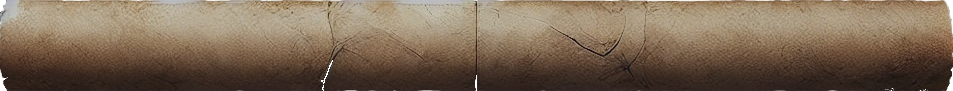
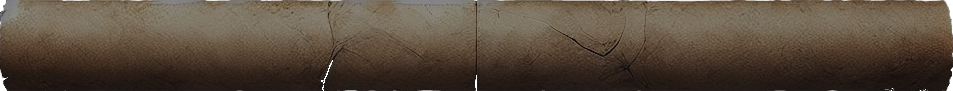
sc

diff --git a/public_html/projects/HauntedHouse/css/about-us.css b/public_html/projects/HauntedHouse/css/about-us.css
@@ -30,8 +30,8 @@ body {
         background-size: cover !important;
         -webkit-background-clip: text !important;
         background: linear-gradient(
-            rgb(65, 48, 36), /* Darker brown */
-            rgba(139, 69, 19, 1)
+            rgb(65, 48, 36), 
+            rgb(65, 48, 36)
         ) !important;
         background-clip: text !important;
         color: transparent !important; /* Makes text take on the background texture */
@@ -48,8 +48,8 @@ body {
         background-size: cover !important;
         -webkit-background-clip: text !important;
         background: linear-gradient(
-            rgb(65, 48, 36), /* Darker brown */
-            rgba(139, 69, 19, 1)
+            rgb(65, 48, 36), 
+            rgb(65, 48, 36)
         ) !important;
         background-clip: text !important;
         color: transparent !important; /* Makes text take on the background texture */
@@ -66,8 +66,8 @@ body {
         background-size: cover !important;
         -webkit-background-clip: text !important;
         background: linear-gradient(
-            rgb(65, 48, 36), /* Darker brown */
-            rgba(139, 69, 19, 1)
+            rgb(65, 48, 36), 
+            rgb(65, 48, 36)
         ) !important;
         background-clip: text !important;
         color: transparent !important; /* Makes text take on the background texture */
@@ -82,8 +82,8 @@ body {
         background-size: cover !important;
         -webkit-background-clip: text !important;
         background: linear-gradient(
-            rgb(65, 48, 36), /* Darker brown */
-            rgba(139, 69, 19, 1)
+            rgb(65, 48, 36), 
+            rgb(65, 48, 36)
         ) !important;
         background-clip: text !important;
         color: transparent !important; /* Makes text take on the background texture */
@@ -99,8 +99,8 @@ body {
         background-size: cover !important;
         -webkit-background-clip: text !important;
         background: linear-gradient(
-            rgb(65, 48, 36), /* Darker brown */
-            rgba(139, 69, 19, 1)
+            rgb(65, 48, 36), 
+            rgb(65, 48, 36)
         ) !important;
         background-clip: text !important;
         color: transparent !important; /* Makes text take on the background texture */
@@ -123,8 +123,8 @@ body {
         background-size: cover !important;
         -webkit-background-clip: text !important;
         background: linear-gradient(
-            rgb(65, 48, 36), /* Darker brown */
-            rgba(139, 69, 19, 1)
+            rgb(65, 48, 36), 
+            rgb(65, 48, 36)
         ) !important;
         background-clip: text !important;
         color: transparent !important; /* Makes text take on the background texture */

diff --git a/public_html/projects/HauntedHouse/css/contact.css b/public_html/projects/HauntedHouse/css/contact.css
@@ -17,7 +17,7 @@ html, body {
 
 /* Parchment Background */
 .parchment-container {
-    background: url('../assets/parchment-paper.png') repeat center center,
+    background: url('../assets/parchmentpaper-long222.png') repeat center center,
                 url('../assets/wood-bckgrnd.webp') repeat center center;
     background-size: cover, cover; /* Prevents stretching */
     min-height: 100vh; /* Makes sure content fits properly */
@@ -61,10 +61,10 @@ html, body {
     font-family: 'Treasure Map Deadhand', serif;
     color: #3b2f2f; /* Keep a dark readable color */
     
-    background: url('../assets/parchment-paper.png'); /* Text texture */
+    background: url('../assets/parchmentpaper-long222.png'); /* Text texture */
     background: linear-gradient(
-        rgb(65, 48, 36), /* Darker brown */
-        rgba(139, 69, 19, 1)
+        rgb(65, 48, 36), 
+        rgb(65, 48, 36)
     );
     -webkit-background-clip: text;
     color: transparent;
@@ -84,7 +84,7 @@ html, body {
     font-family: 'Treasure Map Deadhand', serif;
     color: #3b2f2f; /* Keep a dark readable color */
     
-    background: url('../assets/parchment-paper.png'); /* Text texture */
+    background: url('../assets/parchmentpaper-long222.png'); /* Text texture */
     background: linear-gradient(
         rgb(14, 7, 2), /* Darker brown */
         rgba(139, 69, 19, 1)
@@ -285,7 +285,7 @@ h1{
     border-radius: 6px; /* Less rounded for an old-paper look */
     
     /* Light texture effect */
-    background-image: url('../assets/parchment-paper.png');
+    background-image: url('../assets/parchmentpaper-long222.png');
     background-size: cover;
     
     transition: all 0.3s ease-in-out;
@@ -539,5 +539,5 @@ textarea, input {
     mix-blend-mode: multiply;
     filter: sepia(80%) contrast(110%) brightness(90%);
     -webkit-background-clip: text;
-    background-image: url('../assets/parchment-paper.png');
+    background-image: url('../assets/parchmentpaper-long222.png');
 }

diff --git a/public_html/projects/HauntedHouse/css/scroll-top.css b/public_html/projects/HauntedHouse/css/scroll-top.css
@@ -12,10 +12,15 @@
     z-index: 1000000;
     background-color: #3d332b;
     overflow: visible !important;
-    
+    /* border-radius: 50%; */
+    box-shadow: 
+        5px 5px 10px rgba(0, 0, 0, 0.3),  /* Outer shadow */
+        -5px -5px 10px rgba(92, 56, 23, 0.8), /* Highlight */
+        inset 2px 2px 5px rgba(39, 32, 11, 0.6), /* Inner light */
+        inset -2px -2px 5px rgba(0, 0, 0, 0.2); /* Inner shadow */
     /* Darken and fade the bottom */
-    /* mask-image: linear-gradient(to bottom, rgba(0,0,0,1) 80%, rgba(0,0,0,0) 100%);
-    -webkit-mask-image: linear-gradient(to bottom, rgba(0,0,0,1) 80%, rgba(0,0,0,0) 100%); */
+    /* mask-image: linear-gradient(to bottom, rgba(0,0,0,1) 80%, rgba(0,0,0,0) 100%); */
+    /* -webkit-mask-image: linear-gradient(to bottom, rgba(0,0,0,1) 80%, rgba(0,0,0,0) 100%); */
 }
 
 /* Create a separate darkened mask effect */

diff --git a/public_html/projects/HauntedHouse/css/projects.css b/public_html/projects/HauntedHouse/css/projects.css
@@ -173,12 +173,12 @@ body::before {
     justify-content: flex-end;
 }
 
-.content-container p{
+/* .content-container p{
     background: linear-gradient(
-        rgb(14, 7, 2), /* Darker brown */
+        rgb(14, 7, 2), 
         rgba(139, 69, 19, 1)
     );
-}
+} */
 
 /* Responsive Design */
 @media (max-width: 1024px) {
@@ -210,7 +210,7 @@ body::before {
         left: 70%;
         width: 100px;
     } */
-    .scroll-top{
+    /* .scroll-top{ */
         /* display: none !important; */
-    }
+    /* } */
 }

diff --git a/public_html/projects/HauntedHouse/css/attractions.css b/public_html/projects/HauntedHouse/css/attractions.css
@@ -159,8 +159,8 @@ body {
     font-size: 3rem !important;
     background: url('../assets/parchment-paper.png') !important; /* Text texture */
     background: linear-gradient(
-        rgb(14, 7, 2), /* Darker brown */
-        rgba(139, 69, 19, 1)
+        rgb(65, 48, 36), 
+        rgb(65, 48, 36)
     ) !important;
     -webkit-background-clip: text !important;
     color: transparent !important;

diff --git a/public_html/projects/HauntedHouse/css/donate.css b/public_html/projects/HauntedHouse/css/donate.css
@@ -9,7 +9,7 @@
 body {
     margin: 0;
     padding: 0;
-    background: url('../assets/parchment-paper2.png') repeat-y center top,
+    background: url('../assets/parchmentpaper-long222.png') repeat-y center top,
                 url('../assets/woodtable.png') repeat-y center bottom;
     background-size: cover;
     height: auto; /* Allows it to scroll */

diff --git a/public_html/projects/HauntedHouse/css/subpage.css b/public_html/projects/HauntedHouse/css/subpage.css
@@ -47,8 +47,8 @@ body::before {
     
     background: url('../assets/parchment-paper.png'); /* Text texture */
     background: linear-gradient(
-        rgb(65, 48, 36), /* Darker brown */
-        rgba(139, 69, 19, 1)
+        rgb(65, 48, 36), 
+        rgb(65, 48, 36)
     );
     -webkit-background-clip: text;
     color: transparent;
